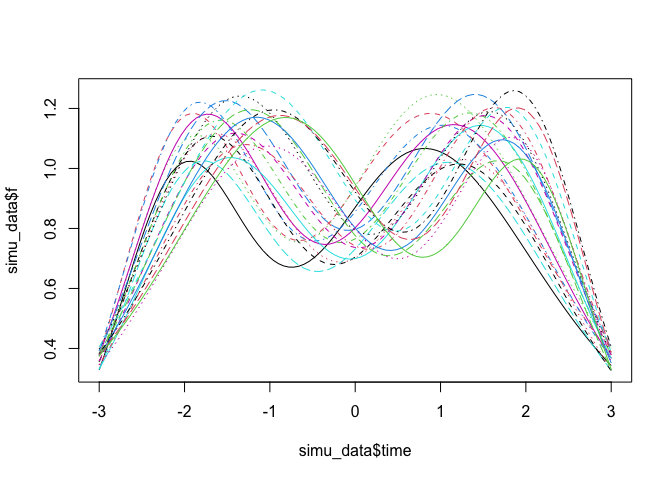
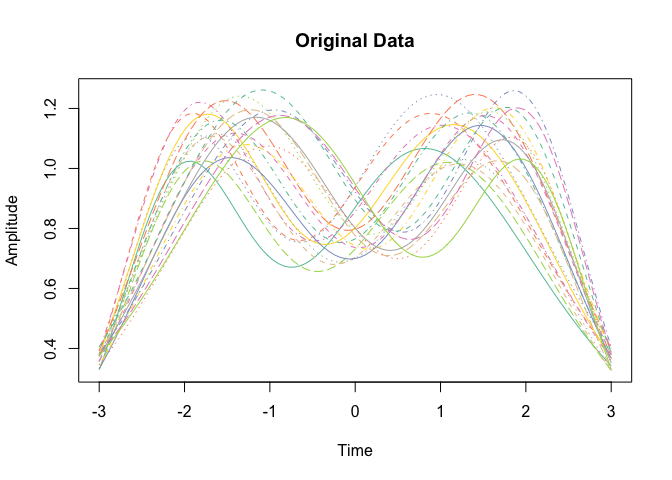
update plotting routines

diff --git a/README.md b/README.md
@@ -50,7 +50,7 @@ visualization:
 ``` r
 library(fdasrvf)
 
-matplot(simu_data$time, simu_data$f, type="l")
+f_plot(simu_data$time, simu_data$f)
 ```
 
 <img src="man/figures/README-1d_curve_plot-1.png" width="100%" /> We can
@@ -74,7 +74,7 @@ Let’s plot the result
 plot(obj)
 ```
 
-<img src="man/figures/README-2d_aligned_plot-1.png" width="100%" /><img src="man/figures/README-2d_aligned_plot-2.png" width="100%" /><img src="man/figures/README-2d_aligned_plot-3.png" width="100%" /><img src="man/figures/README-2d_aligned_plot-4.png" width="100%" /><img src="man/figures/README-2d_aligned_plot-5.png" width="100%" />
+<img src="man/figures/README-1d_aligned_plot-1.png" width="100%" /><img src="man/figures/README-1d_aligned_plot-2.png" width="100%" /><img src="man/figures/README-1d_aligned_plot-3.png" width="100%" /><img src="man/figures/README-1d_aligned_plot-4.png" width="100%" /><img src="man/figures/README-1d_aligned_plot-5.png" width="100%" />
 
 ## References
 

diff --git a/NEWS.md b/NEWS.md
@@ -1,8 +1,12 @@
-# fdasrvf 2.2.X
+# fdasrvf 2.3.X
 * fixed scaling in `curve_karcher_mean`
 * parallelized `curve_karcher_mean` and `curve_srvf_align`
 * updated `sample_shapes` and created `curveboxplot` (#39)
 * bugfixes (#38)
+* improved distance matrix computation (#45)
+* refactor karcher mean (#40 and #47)
+* updated README (#50)
+* updated plotting routines
 
 # fdasrvf 2.2.0
 * bugfixes
